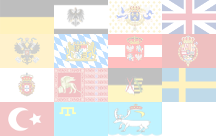
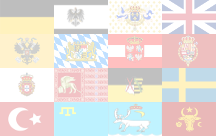
added moldavia's flag and spawnable units; moved the order of the spawnable units of all nations around so it makes more logical sense, as well as sorting the nations by alphabetical order; added a 'nation name' text during nation selection

Changed region(s): [[0.75, 0.7353, 1.0, 1.0]]

diff --git a/xviii/Player.cpp b/xviii/Player.cpp
@@ -15,51 +15,53 @@ deploymentPoints{30},
 ready{false},
 spawnedAtBottom{_spawnedAtBottom}
 {
-	if (nation == Player::Nation::OTO){
-		spawnableUnits.emplace_back(SpawnableUnit(this, UnitTile::UnitType::AKINCI, {1, 1}));
-		spawnableUnits.emplace_back(SpawnableUnit(this, UnitTile::UnitType::DELI, {2, 1}));
-		spawnableUnits.emplace_back(SpawnableUnit(this, UnitTile::UnitType::TIM, {3, 1}));
-		spawnableUnits.emplace_back(SpawnableUnit(this, UnitTile::UnitType::SAP, {4, 1}));
-		spawnableUnits.emplace_back(SpawnableUnit(this, UnitTile::UnitType::ART, {5, 1}));
-		spawnableUnits.emplace_back(SpawnableUnit(this, UnitTile::UnitType::KAP, {1, 2}));
-		spawnableUnits.emplace_back(SpawnableUnit(this, UnitTile::UnitType::JAN, {2, 2}));
-		spawnableUnits.emplace_back(SpawnableUnit(this, UnitTile::UnitType::OINF, {3, 2}));
-		spawnableUnits.emplace_back(SpawnableUnit(this, UnitTile::UnitType::GEN, {4, 2}));
-		spawnableUnits.emplace_back(SpawnableUnit(this, UnitTile::UnitType::MOR, {5, 2}));
+	//All nations get these three units
+	spawnableUnits.emplace_back(SpawnableUnit(this, UnitTile::UnitType::GEN, {1, 1}));
+	spawnableUnits.emplace_back(SpawnableUnit(this, UnitTile::UnitType::ART, {2, 1}));
+	spawnableUnits.emplace_back(SpawnableUnit(this, UnitTile::UnitType::MOR, {3, 1}));
+
+	if (nation == Player::Nation::MOL){
+		spawnableUnits.emplace_back(SpawnableUnit(this, UnitTile::UnitType::DOR, {4, 1}));
+		spawnableUnits.emplace_back(SpawnableUnit(this, UnitTile::UnitType::VIT, {5, 1}));
+		spawnableUnits.emplace_back(SpawnableUnit(this, UnitTile::UnitType::ARN, {6, 1}));
+		spawnableUnits.emplace_back(SpawnableUnit(this, UnitTile::UnitType::BOY, {1, 2}));
+		spawnableUnits.emplace_back(SpawnableUnit(this, UnitTile::UnitType::HUS, {2, 2}));
+		spawnableUnits.emplace_back(SpawnableUnit(this, UnitTile::UnitType::COUR, {3, 2}));
+		spawnableUnits.emplace_back(SpawnableUnit(this, UnitTile::UnitType::SEG, {4, 2}));
+	}
+
+	else if (nation == Player::Nation::OTO){
+		spawnableUnits.emplace_back(SpawnableUnit(this, UnitTile::UnitType::JAN, {4, 1}));
+		spawnableUnits.emplace_back(SpawnableUnit(this, UnitTile::UnitType::OINF, {5, 1}));
+		spawnableUnits.emplace_back(SpawnableUnit(this, UnitTile::UnitType::SAP, {1, 2}));
+		spawnableUnits.emplace_back(SpawnableUnit(this, UnitTile::UnitType::KAP, {2, 2}));
+		spawnableUnits.emplace_back(SpawnableUnit(this, UnitTile::UnitType::DELI, {3, 2}));
+		spawnableUnits.emplace_back(SpawnableUnit(this, UnitTile::UnitType::AKINCI, {4, 2}));
+		spawnableUnits.emplace_back(SpawnableUnit(this, UnitTile::UnitType::TIM, {5, 2}));
 	}
 	else if (nation == Player::Nation::CRI){
-		spawnableUnits.emplace_back(SpawnableUnit(this, UnitTile::UnitType::CRICAV, {1, 1}));
-		spawnableUnits.emplace_back(SpawnableUnit(this, UnitTile::UnitType::KAP, {2, 1}));
-		spawnableUnits.emplace_back(SpawnableUnit(this, UnitTile::UnitType::COSINF, {3, 1}));
-		spawnableUnits.emplace_back(SpawnableUnit(this, UnitTile::UnitType::ART, {1, 2}));
-		spawnableUnits.emplace_back(SpawnableUnit(this, UnitTile::UnitType::GEN, {2, 2}));
-		spawnableUnits.emplace_back(SpawnableUnit(this, UnitTile::UnitType::MOR, {3, 2}));
+		spawnableUnits.emplace_back(SpawnableUnit(this, UnitTile::UnitType::COSINF, {4, 1}));
+		spawnableUnits.emplace_back(SpawnableUnit(this, UnitTile::UnitType::CRICAV, {5, 1}));
+		spawnableUnits.emplace_back(SpawnableUnit(this, UnitTile::UnitType::KAP, {6, 1}));
 	}
 	else if (nation == Player::Nation::IME){
-		spawnableUnits.emplace_back(SpawnableUnit(this, UnitTile::UnitType::KMKH, {1, 1}));
-		spawnableUnits.emplace_back(SpawnableUnit(this, UnitTile::UnitType::PIT, {2, 1}));
-		spawnableUnits.emplace_back(SpawnableUnit(this, UnitTile::UnitType::DON, {3, 1}));
-		spawnableUnits.emplace_back(SpawnableUnit(this, UnitTile::UnitType::AMKH, {4, 1}));
-		spawnableUnits.emplace_back(SpawnableUnit(this, UnitTile::UnitType::KKV, {5, 1}));
-		spawnableUnits.emplace_back(SpawnableUnit(this, UnitTile::UnitType::METTOP, {1, 2}));
-		spawnableUnits.emplace_back(SpawnableUnit(this, UnitTile::UnitType::KACI, {2, 2}));
-		spawnableUnits.emplace_back(SpawnableUnit(this, UnitTile::UnitType::ART, {3, 2}));
-		spawnableUnits.emplace_back(SpawnableUnit(this, UnitTile::UnitType::GEN, {4, 2}));
-		spawnableUnits.emplace_back(SpawnableUnit(this, UnitTile::UnitType::MOR, {5, 2}));
+		spawnableUnits.emplace_back(SpawnableUnit(this, UnitTile::UnitType::METTOP, {4, 1}));
+		spawnableUnits.emplace_back(SpawnableUnit(this, UnitTile::UnitType::KACI, {5, 1}));
+		spawnableUnits.emplace_back(SpawnableUnit(this, UnitTile::UnitType::AMKH, {1, 2}));
+		spawnableUnits.emplace_back(SpawnableUnit(this, UnitTile::UnitType::KKV, {2, 2}));
+		spawnableUnits.emplace_back(SpawnableUnit(this, UnitTile::UnitType::PIT, {3, 2}));
+		spawnableUnits.emplace_back(SpawnableUnit(this, UnitTile::UnitType::KMKH, {4, 2}));
+		spawnableUnits.emplace_back(SpawnableUnit(this, UnitTile::UnitType::DON, {5, 2}));
 	}
 	else{
-
-		spawnableUnits.emplace_back(SpawnableUnit(this, UnitTile::UnitType::INF, {1, 1}));		
-		spawnableUnits.emplace_back(SpawnableUnit(this, UnitTile::UnitType::CAV, {2, 1}));
-		spawnableUnits.emplace_back(SpawnableUnit(this, UnitTile::UnitType::CUIR, {3, 1}));
-		spawnableUnits.emplace_back(SpawnableUnit(this, UnitTile::UnitType::DRAG, {4, 1}));
+		spawnableUnits.emplace_back(SpawnableUnit(this, UnitTile::UnitType::INF, {4, 1}));
 		spawnableUnits.emplace_back(SpawnableUnit(this, UnitTile::UnitType::GRE, {5, 1}));
-		spawnableUnits.emplace_back(SpawnableUnit(this, UnitTile::UnitType::SAP, {6, 1}));
-		spawnableUnits.emplace_back(SpawnableUnit(this, UnitTile::UnitType::LCAV, {1, 2}));
-		spawnableUnits.emplace_back(SpawnableUnit(this, UnitTile::UnitType::ART, {2, 2}));
-		spawnableUnits.emplace_back(SpawnableUnit(this, UnitTile::UnitType::MOR, {3, 2}));
-		spawnableUnits.emplace_back(SpawnableUnit(this, UnitTile::UnitType::GEN, {4, 2}));
-		spawnableUnits.emplace_back(SpawnableUnit(this, UnitTile::UnitType::LINF, {5, 2}));
+		spawnableUnits.emplace_back(SpawnableUnit(this, UnitTile::UnitType::LINF, {6, 1}));
+		spawnableUnits.emplace_back(SpawnableUnit(this, UnitTile::UnitType::SAP, {1, 2}));
+		spawnableUnits.emplace_back(SpawnableUnit(this, UnitTile::UnitType::CAV, {2, 2}));
+		spawnableUnits.emplace_back(SpawnableUnit(this, UnitTile::UnitType::CUIR, {3, 2}));
+		spawnableUnits.emplace_back(SpawnableUnit(this, UnitTile::UnitType::DRAG, {4, 2}));
+		spawnableUnits.emplace_back(SpawnableUnit(this, UnitTile::UnitType::LCAV, {5, 2}));
 	}
 
 

diff --git a/xviii/GameState_SelectNations.cpp b/xviii/GameState_SelectNations.cpp
@@ -1,26 +1,41 @@
 #include "stdafx.h"
 #include "GameState_SelectNations.h"
 
+void GameState_SelectNations::updateNationName(){
+	#define X(nationType, textureType, str)\
+		if(flagIterator->nation == nationType){\
+			currentNationName.setString(str);\
+			}
+	NATIONPROPERTIES
+	#undef X
+
+	sf::FloatRect textRect = currentNationName.getLocalBounds();
+	currentNationName.setOrigin(textRect.left + textRect.width / 2.0f, textRect.top + textRect.height / 2.0f);
+	currentNationName.setPosition(xResolution / 2, yResolution / 1.5);
+}
+
 GameState_SelectNations::GameState_SelectNations(Game* _game) :
 GameState{_game},
 flagView{sf::FloatRect({}, {}, xResolution, yResolution)},
 uiView{sf::FloatRect({}, {}, xResolution, yResolution)}
 {
-	flagMenuItems.push_back({game->mTextureManager.getSprite(TextureManager::Flag::PRU), Player::Nation::PRU});
+
 	flagMenuItems.push_back({game->mTextureManager.getSprite(TextureManager::Flag::AUS), Player::Nation::AUS});
-	flagMenuItems.push_back({game->mTextureManager.getSprite(TextureManager::Flag::FRA), Player::Nation::FRA});
-	flagMenuItems.push_back({game->mTextureManager.getSprite(TextureManager::Flag::GBR), Player::Nation::GBR});
-	flagMenuItems.push_back({game->mTextureManager.getSprite(TextureManager::Flag::RUS), Player::Nation::RUS});
 	flagMenuItems.push_back({game->mTextureManager.getSprite(TextureManager::Flag::BAV), Player::Nation::BAV});
 	flagMenuItems.push_back({game->mTextureManager.getSprite(TextureManager::Flag::COM), Player::Nation::COM});
-	flagMenuItems.push_back({game->mTextureManager.getSprite(TextureManager::Flag::SPA), Player::Nation::SPA});
-	flagMenuItems.push_back({game->mTextureManager.getSprite(TextureManager::Flag::POR), Player::Nation::POR});
-	flagMenuItems.push_back({game->mTextureManager.getSprite(TextureManager::Flag::VEN), Player::Nation::VEN});
-	flagMenuItems.push_back({game->mTextureManager.getSprite(TextureManager::Flag::SAX), Player::Nation::SAX});
-	flagMenuItems.push_back({game->mTextureManager.getSprite(TextureManager::Flag::SWE), Player::Nation::SWE});
-	flagMenuItems.push_back({game->mTextureManager.getSprite(TextureManager::Flag::OTO), Player::Nation::OTO});
 	flagMenuItems.push_back({game->mTextureManager.getSprite(TextureManager::Flag::CRI), Player::Nation::CRI});
+	flagMenuItems.push_back({game->mTextureManager.getSprite(TextureManager::Flag::FRA), Player::Nation::FRA});
+	flagMenuItems.push_back({game->mTextureManager.getSprite(TextureManager::Flag::GBR), Player::Nation::GBR});
 	flagMenuItems.push_back({game->mTextureManager.getSprite(TextureManager::Flag::IME), Player::Nation::IME});
+	flagMenuItems.push_back({game->mTextureManager.getSprite(TextureManager::Flag::MOL), Player::Nation::MOL});
+	flagMenuItems.push_back({game->mTextureManager.getSprite(TextureManager::Flag::OTO), Player::Nation::OTO});
+	flagMenuItems.push_back({game->mTextureManager.getSprite(TextureManager::Flag::POR), Player::Nation::POR});
+	flagMenuItems.push_back({game->mTextureManager.getSprite(TextureManager::Flag::PRU), Player::Nation::PRU});
+	flagMenuItems.push_back({game->mTextureManager.getSprite(TextureManager::Flag::RUS), Player::Nation::RUS});
+	flagMenuItems.push_back({game->mTextureManager.getSprite(TextureManager::Flag::SAX), Player::Nation::SAX});
+	flagMenuItems.push_back({game->mTextureManager.getSprite(TextureManager::Flag::SPA), Player::Nation::SPA});
+	flagMenuItems.push_back({game->mTextureManager.getSprite(TextureManager::Flag::SWE), Player::Nation::SWE});
+	flagMenuItems.push_back({game->mTextureManager.getSprite(TextureManager::Flag::VEN), Player::Nation::VEN});
 
 	for (int i{0}; i < flagMenuItems.size(); ++i){
 		int spriteXPos = (i * 75);
@@ -35,10 +50,16 @@ uiView{sf::FloatRect({}, {}, xResolution, yResolution)}
 
 	currentPlayerText.setFont(game->mFontManager.getFont(FontManager::Arial));
 	currentPlayerText.setString("Player 1");
-	currentPlayerText.setColor(sf::Color::Black);
+	currentPlayerText.setColor(sf::Color::White);
 	currentPlayerText.setCharacterSize(55);;
 	currentPlayerText.setOrigin(currentPlayerText.getLocalBounds().width / 2, currentPlayerText.getLocalBounds().height / 2);
 	currentPlayerText.setPosition(xResolution / 2, yResolution / 4);
+
+	currentNationName.setFont(game->mFontManager.getFont(FontManager::Arial));
+	currentNationName.setColor(sf::Color::Black);
+	currentNationName.setCharacterSize(50);
+
+	updateNationName();
 }
 
 void GameState_SelectNations::getInput(){
@@ -64,6 +85,7 @@ void GameState_SelectNations::getInput(){
 						flagMenuItems[i].rekt.setPosition(spriteXPos, spriteYPos);
 					}
 
+					updateNationName();
 					currentPlayerText.setString("Player 2");
 				}
 				else{
@@ -93,8 +115,10 @@ void GameState_SelectNations::getInput(){
 						++flagIterator;
 					}
 				}
-			}
 
+				updateNationName();
+
+			}
 			break;
 
 		case sf::Event::Closed:
@@ -117,6 +141,7 @@ void GameState_SelectNations::draw(){
 
 	game->mWindow.setView(uiView);
 	game->mWindow.draw(currentPlayerText);
+	game->mWindow.draw(currentNationName);
 
 
 	game->mWindow.setView(flagView);

diff --git a/xviii/Player.h b/xviii/Player.h
@@ -48,20 +48,21 @@
 
 #define NATIONPROPERTIES\
 	X(Player::Nation::AUS, TextureManager::Flag::AUS, "Austria")\
-	X(Player::Nation::PRU, TextureManager::Flag::PRU, "Prussia")\
-	X(Player::Nation::FRA, TextureManager::Flag::FRA, "France")\
-	X(Player::Nation::GBR, TextureManager::Flag::GBR, "GBR")\
-	X(Player::Nation::RUS, TextureManager::Flag::RUS, "Russia")\
 	X(Player::Nation::BAV, TextureManager::Flag::BAV, "Bavaria")\
 	X(Player::Nation::COM, TextureManager::Flag::COM, "Commonwealth")\
-	X(Player::Nation::SPA, TextureManager::Flag::SPA, "Spain")\
-	X(Player::Nation::POR, TextureManager::Flag::POR, "Portugal")\
-	X(Player::Nation::VEN, TextureManager::Flag::VEN, "Venice")\
-	X(Player::Nation::SAX, TextureManager::Flag::SAX, "Saxony")\
-	X(Player::Nation::SWE, TextureManager::Flag::SWE, "Sweden")\
-	X(Player::Nation::OTO, TextureManager::Flag::OTO, "Ottoman Empire")\
 	X(Player::Nation::CRI, TextureManager::Flag::CRI, "Crimea")\
-	X(Player::Nation::IME, TextureManager::Flag::IME, "Imereti")
+	X(Player::Nation::FRA, TextureManager::Flag::FRA, "France")\
+	X(Player::Nation::GBR, TextureManager::Flag::GBR, "GBR")\
+	X(Player::Nation::IME, TextureManager::Flag::IME, "Imereti")\
+	X(Player::Nation::MOL, TextureManager::Flag::MOL, "Moldavia")\
+	X(Player::Nation::OTO, TextureManager::Flag::OTO, "Ottoman Empire")\
+	X(Player::Nation::POR, TextureManager::Flag::POR, "Portugal")\
+	X(Player::Nation::PRU, TextureManager::Flag::PRU, "Prussia")\
+	X(Player::Nation::RUS, TextureManager::Flag::RUS, "Russia")\
+	X(Player::Nation::SAX, TextureManager::Flag::SAX, "Saxony")\
+	X(Player::Nation::SPA, TextureManager::Flag::SPA, "Spain")\
+	X(Player::Nation::SWE, TextureManager::Flag::SWE, "Sweden")\
+	X(Player::Nation::VEN, TextureManager::Flag::VEN, "Venice")
 
 class Player
 {
@@ -121,7 +122,7 @@ class Player
 		};
 
 
-		enum class Nation{ AUS, PRU, FRA, GBR, RUS, BAV, COM, SPA, POR, VEN, SAX, SWE, OTO, CRI, IME};
+		enum class Nation{ AUS, PRU, FRA, GBR, RUS, BAV, COM, SPA, POR, VEN, SAX, SWE, OTO, CRI, IME, MOL};
 		Player(World& _world, Nation _nation, std::mt19937& _mt19937, TextureManager& _tm, FontManager& _fm, bool _spawnedAtBottom);
 		
 		//Returns true if successfully spawned unit

diff --git a/xviii/TextureManager.h b/xviii/TextureManager.h
@@ -8,7 +8,7 @@ public:
 	enum class Unit{INF, CAV, CUIR, LCAV, DRAG, ART, MOR, GEN, GRE, LINF, SAP, HINF};
 	enum class Terrain{MEADOW, HILLS, MUD, ROAD, SLOPES, URBAN, WATER, WOODS};
 	enum class UI{RECTANGLE, BUTTON};
-	enum class Flag{AUS,PRU,FRA, GBR, RUS, BAV, COM, SPA, POR, VEN, SAX, SWE, OTO, CRI, IME};
+	enum class Flag{AUS,PRU,FRA, GBR, RUS, BAV, COM, SPA, POR, VEN, SAX, SWE, OTO, CRI, IME, MOL};
 
 	TextureManager();
 

diff --git a/xviii/GameState_SelectNations.h b/xviii/GameState_SelectNations.h
@@ -12,6 +12,8 @@ public:
 	virtual void draw();
 
 private:
+	void updateNationName();
+
 	struct FlagMenuItem{
 		FlagMenuItem(sf::Sprite _sprite, Player::Nation _nation) :
 			sprite{_sprite},
@@ -44,6 +46,7 @@ private:
 	std::vector<FlagMenuItem>::iterator flagIterator;
 
 	sf::Text currentPlayerText;
+	sf::Text currentNationName;
 	sf::View flagView;
 	sf::View uiView;
 };

diff --git a/xviii/TextureManager.cpp b/xviii/TextureManager.cpp
@@ -205,6 +205,10 @@ sf::Sprite TextureManager::getSprite(Flag type){
 	case Flag::IME:
 		rekt = {108, 102, counterSize.x, counterSize.y};
 		break;
+
+	case Flag::MOL:
+		rekt = {162, 102, counterSize.x, counterSize.y};
+		break;
 	}
 
 	return{*flags, rekt};
